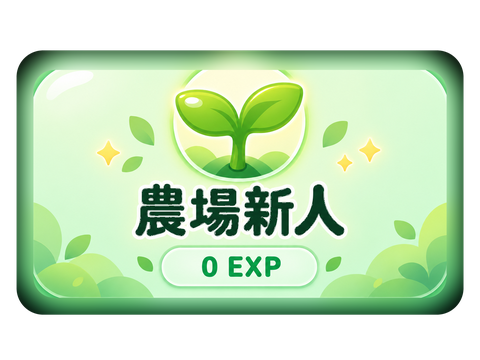
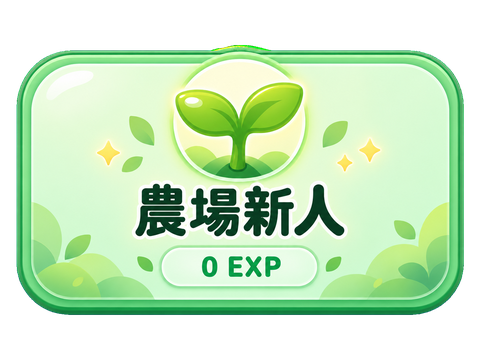
Titles: restore original card artwork; clean only the section background/wrapper
- Revert the 7 title PNGs to the original uploaded artwork (undo all prior
  image processing); the PNG files are the originals again, unmodified
- Titles section background stays a plain, opaque light-cream panel with no
  decorative layer behind the cards
- Add a wrapper-level clip (clip-path on the displayed card image only, no
  file edit) that trims the few pixels of leaf tip poking above a card's top
  edge, so nothing decorative shows above/around the cards in the section
- No change to card colors, badges, text, order, count, EXP/unlock logic, the
  page background image, or any other section (verified lockShown === locked at
  exp 0/350/3000, no horizontal overflow, page still fits one 390x844 viewport)

Claude-Session: https://claude.ai/code/session_011UMCHMkesSR9npXbMMBsjx

diff --git a/index.html b/index.html
@@ -292,6 +292,8 @@ input, textarea { width: 100%; padding: 12px; border: 2px solid #eee; border-rad
 #viewTask .tk-chip.current { box-shadow:0 6px 16px rgba(70,170,100,0.28); }
 /* 上傳的稱號卡圖：鋪滿整張卡（載入失敗則自動隱藏，露出下方文字退回卡） */
 #viewTask .tk-chip-art { position:absolute; inset:0; width:100%; height:100%; object-fit:cover; z-index:1; display:block; }
+/* 容納層：把每張卡上緣微微超出卡身的小葉尖裁切掉，讓卡片後方與四周維持乾淨（不修改任何 PNG 檔） */
+#viewTask #titleList .tk-chip-art { clip-path: inset(7% 0 0 0 round 15px); }
 #viewTask .tk-chip-art.tk-art-off { display:none; }
 #viewTask .tk-chip.locked .tk-chip-art { filter:grayscale(0.28) brightness(0.96); }
 /* 文字退回卡（沒有圖時顯示，填滿整張卡） */
